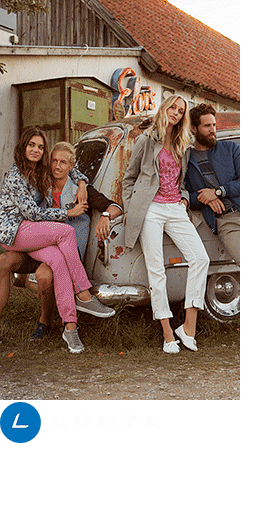
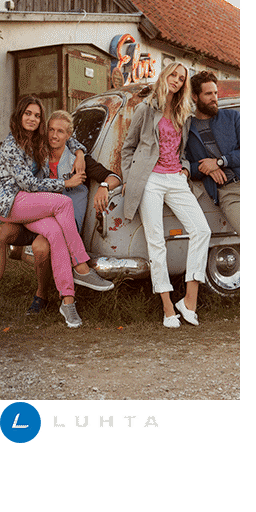
Update

diff --git a/out/240x400_6.js b/out/240x400_6.js
@@ -45,56 +45,56 @@ function getMCSymbolPrototype(symbol, nominalBounds, frameBounds) {
 
 	// Слой 1
 	this.shape = new cjs.Shape();
-	this.shape.graphics.f("#FFFFFF").s().p("AAkCRIAAiGIhHAAIAACGIg3AAIAAkgIA3AAIAABvIBHAAIAAhvIA3AAIAAEgg");
-	this.shape.setTransform(56.5,28.3);
+	this.shape.graphics.f("#FFFFFF").s().p("AAoCfIAAiTIhOAAIAACTIg9AAIAAk9IA9AAIAAB7IBOAAIAAh7IA8AAIAAE9g");
+	this.shape.setTransform(63.4,18.3);
 
 	this.shape_1 = new cjs.Shape();
-	this.shape_1.graphics.f("#FFFFFF").s().p("AhMCRIAAkgICZAAIAAAsIhiAAIAABDIBZAAIAAArIhZAAIAABZIBiAAIAAAtg");
-	this.shape_1.setTransform(36.2,28.3);
+	this.shape_1.graphics.f("#FFFFFF").s().p("AhUCfIAAk9ICpAAIAAAxIhsAAIAABKIBiAAIAAAvIhiAAIAABiIBsAAIAAAxg");
+	this.shape_1.setTransform(41.2,18.3);
 
 	this.shape_2 = new cjs.Shape();
[1 lines of base64/hex data omitted]
-	this.shape_2.setTransform(11.9,28.3);
[1 lines of base64/hex data omitted]
+	this.shape_2.setTransform(14.4,18.3);
 
 	this.shape_3 = new cjs.Shape();
-	this.shape_3.graphics.f("#FFFFFF").s().p("AhMCRIAAkgICZAAIAAAsIhiAAIAABDIBZAAIAAArIhZAAIAABZIBiAAIAAAtg");
-	this.shape_3.setTransform(-11.9,28.3);
+	this.shape_3.graphics.f("#FFFFFF").s().p("AhUCfIAAk9ICpAAIAAAxIhsAAIAABKIBiAAIAAAvIhiAAIAABiIBsAAIAAAxg");
+	this.shape_3.setTransform(-11.7,18.3);
 
 	this.shape_4 = new cjs.Shape();
-	this.shape_4.graphics.f("#FFFFFF").s().p("AhZCRIAAkgIBnAAQAXAAARALQARAMAJATQAKASAAAYQAAAYgKAUQgJASgRAMQgRALgYABIgvAAIAAB2gAgigPIAcAAQATAAALgLQAKgLAAgVQAAgVgKgKQgLgLgTAAIgcAAg");
-	this.shape_4.setTransform(-32.4,28.3);
+	this.shape_4.graphics.f("#FFFFFF").s().p("AhiCfIAAk9IBxAAQAaABATAMQASANALAUQAKAWAAAZQAAAbgLAVQgKAVgTANQgTAMgaAAIgzAAIAACCgAglgQIAeAAQAWAAALgNQALgMAAgXQAAgXgLgLQgLgNgWAAIgeAAg");
+	this.shape_4.setTransform(-34.3,18.3);
 
 	this.shape_5 = new cjs.Shape();
-	this.shape_5.graphics.f("#FFFFFF").s().p("AhMCRIAAkgICZAAIAAAsIhiAAIAABDIBZAAIAAArIhZAAIAABZIBiAAIAAAtg");
-	this.shape_5.setTransform(-52.6,28.3);
+	this.shape_5.graphics.f("#FFFFFF").s().p("AhUCfIAAk9ICpAAIAAAxIhtAAIAABKIBjAAIAAAvIhjAAIAABiIBtAAIAAAxg");
+	this.shape_5.setTransform(-56.4,18.3);
 
 	this.shape_6 = new cjs.Shape();
-	this.shape_6.graphics.f("#FFFFFF").s().p("AAkCRIAAj0IhHAAIAAD0Ig3AAIAAkgIC1AAIAAEgg");
-	this.shape_6.setTransform(-73.4,28.3);
+	this.shape_6.graphics.f("#FFFFFF").s().p("AAoCfIAAkMIhPAAIAAEMIg8AAIAAk9IDHAAIAAE9g");
+	this.shape_6.setTransform(-79.3,18.3);
 
 	this.shape_7 = new cjs.Shape();
-	this.shape_7.graphics.f("#FFFFFF").s().p("AhZCRIAAkgIBnAAQAXAAARALQARAMAJASQAKAUAAAXQAAAYgKAUQgJATgRALQgRAMgYAAIgvAAIAAB2gAgigPIAcAAQATAAALgLQAKgMAAgUQAAgVgKgKQgLgMgTAAIgcAAg");
-	this.shape_7.setTransform(5.8,-17.4);
+	this.shape_7.graphics.f("#FFFFFF").s().p("AhiCfIAAk9IBxAAQAaAAATANQASAMALAVQAKAWAAAZQAAAagLAWQgKAVgTAMQgTANgaABIgzAAIAACBgAglgQIAeAAQAWAAALgNQALgMAAgXQAAgXgLgMQgLgLgWgBIgeAAg");
+	this.shape_7.setTransform(7.8,-22);
 
 	this.shape_8 = new cjs.Shape();
-	this.shape_8.graphics.f("#FFFFFF").s().p("AhMCRIAAkgICZAAIAAArIhiAAIAABEIBZAAIAAArIhZAAIAABaIBiAAIAAAsg");
-	this.shape_8.setTransform(-14.3,-17.4);
+	this.shape_8.graphics.f("#FFFFFF").s().p("AhUCfIAAk9ICpAAIAAAwIhtAAIAABKIBjAAIAAAwIhjAAIAABjIBtAAIAAAwg");
+	this.shape_8.setTransform(-14.3,-22);
 
 	this.shape_9 = new cjs.Shape();
-	this.shape_9.graphics.f("#FFFFFF").s().p("AgbCRIAAj1IhDAAIAAgrIC9AAIAAArIhEAAIAAD1g");
-	this.shape_9.setTransform(-34.3,-17.4);
+	this.shape_9.graphics.f("#FFFFFF").s().p("AgdCfIAAkNIhLAAIAAgwIDRAAIAAAwIhLAAIAAENg");
+	this.shape_9.setTransform(-36.3,-22);
 
 	this.shape_10 = new cjs.Shape();
-	this.shape_10.graphics.f("#FFFFFF").s().p("AhMCRIAAkgICZAAIAAArIhiAAIAABEIBZAAIAAArIhZAAIAABaIBiAAIAAAsg");
-	this.shape_10.setTransform(-53.7,-17.4);
+	this.shape_10.graphics.f("#FFFFFF").s().p("AhUCfIAAk9ICpAAIAAAwIhtAAIAABKIBjAAIAAAwIhjAAIAABjIBtAAIAAAwg");
+	this.shape_10.setTransform(-57.6,-22);
 
 	this.shape_11 = new cjs.Shape();
-	this.shape_11.graphics.f("#FFFFFF").s().p("AhXCRIAAkgIBkAAQAZAAAQAKQAQAJAHARQAHAQAAASQAAAOgFANQgEAOgJAKQgJAJgMADQAWAIAKAQQALARAAAcQAAAZgHATQgHAUgPAKQgPAMgWAAgAggBnIAiAAQAPAAAIgKQAHgKAAgZQAAgVgHgMQgIgLgPAAIgiAAgAgggaIAcAAQARgBAIgKQAIgJAAgUQAAgSgHgJQgIgJgRAAIgdAAg");
-	this.shape_11.setTransform(-73.7,-17.4);
+	this.shape_11.graphics.f("#FFFFFF").s().p("AhgCfIAAk9IBuAAQAcAAASALQARALAHARQAIASAAAUQAAAQgEAPQgGAPgKALQgJAKgNADQAYAJAMARQALATAAAfQAAAcgIAUQgIAWgQAMQgQAMgYAAgAgkBxIAmAAQARABAIgLQAIgMAAgaQAAgYgIgNQgIgNgRAAIgmAAgAgkgdIAgAAQASAAAKgLQAIgLABgVQgBgUgHgLQgJgKgTABIghAAg");
+	this.shape_11.setTransform(-79.6,-22);
 
 	this.timeline.addTween(cjs.Tween.get({}).to({state:[{t:this.shape_11},{t:this.shape_10},{t:this.shape_9},{t:this.shape_8},{t:this.shape_7},{t:this.shape_6},{t:this.shape_5},{t:this.shape_4},{t:this.shape_3},{t:this.shape_2},{t:this.shape_1},{t:this.shape}]}).wait(1));
 
-}).prototype = getMCSymbolPrototype(lib.Символ12, new cjs.Rectangle(-86.5,-43.2,173,95.5), null);
+}).prototype = getMCSymbolPrototype(lib.Символ12, new cjs.Rectangle(-93.5,-50.2,173,94.7), null);
 
 
 (lib.Символ8 = function(mode,startPosition,loop) {
@@ -115,71 +115,71 @@ function getMCSymbolPrototype(symbol, nominalBounds, frameBounds) {
 
 	// Слой 3
 	this.shape = new cjs.Shape();
[1 lines of base64/hex data omitted]
-	this.shape.setTransform(55.6,17);
[1 lines of base64/hex data omitted]
+	this.shape.setTransform(81.8,1.4);
 
 	this.shape_1 = new cjs.Shape();
[1 lines of base64/hex data omitted]
-	this.shape_1.setTransform(40.5,17);
+	this.shape_1.graphics.f("#FFFFFF").s().p("AANBPIAAglIACgTIADgVIACgSIggBfIglAAIAAidIAlAAIAAAnIgCATIgCAVIgCATIABAAIAehiIAkAAIAACdg");
+	this.shape_1.setTransform(70,1.4);
 
 	this.shape_2 = new cjs.Shape();
-	this.shape_2.graphics.f("#FFFFFF").s().p("AAWB5IAAgpIhaAAIAAjIIAwAAIAACiIAfAAIAAiiIAwAAIAACiIAKAAIAABPg");
-	this.shape_2.setTransform(25.1,19);
+	this.shape_2.graphics.f("#FFFFFF").s().p("AASBfIAAggIhHAAIAAidIAlAAIAAB/IAZAAIAAh/IAlAAIAAB/IAJAAIAAA+g");
+	this.shape_2.setTransform(57.9,3);
 
 	this.shape_3 = new cjs.Shape();
-	this.shape_3.graphics.f("#FFFFFF").s().p("AAPBlIgVhHIgNAYIAAAvIguAAIAAjIIAuAAIAABQIAhhQIA0AAIgsBZIAsBvg");
-	this.shape_3.setTransform(9.7,17);
+	this.shape_3.graphics.f("#FFFFFF").s().p("AAMBPIgRg3IgKASIAAAlIgkAAIAAidIAkAAIAAA/IAag/IApAAIgjBGIAjBXg");
+	this.shape_3.setTransform(45.8,1.4);
 
 	this.shape_4 = new cjs.Shape();
-	this.shape_4.graphics.f("#FFFFFF").s().p("Ag3BlIAAjIIBvAAIAAAmIg/AAIAAAnIA5AAIAAAlIg5AAIAAAwIA/AAIAAAmg");
-	this.shape_4.setTransform(-4.7,17);
+	this.shape_4.graphics.f("#FFFFFF").s().p("AgrBPIAAidIBXAAIAAAeIgxAAIAAAfIAsAAIAAAdIgsAAIAAAlIAxAAIAAAeg");
+	this.shape_4.setTransform(34.5,1.4);
 
 	this.shape_5 = new cjs.Shape();
[1 lines of base64/hex data omitted]
-	this.shape_5.setTransform(-20.7,17.1);
[1 lines of base64/hex data omitted]
+	this.shape_5.setTransform(21.9,1.5);
 
 	this.shape_6 = new cjs.Shape();
[1 lines of base64/hex data omitted]
-	this.shape_6.setTransform(-37.9,17.1);
[1 lines of base64/hex data omitted]
+	this.shape_6.setTransform(8.3,1.5);
 
 	this.shape_7 = new cjs.Shape();
[1 lines of base64/hex data omitted]
-	this.shape_7.setTransform(-53.8,17);
+	this.shape_7.graphics.f("#FFFFFF").s().p("AgmBFQgMgMAAgYIAAhGQAAgNAFgKQAGgKALgGQAMgGAQAAQASAAAMAGQALAGAFAKQAFAKAAANIAABGQABAYgNAMQgMANgbABQgZgBgNgNgAgIgyQgEAEAAAGIAABPQAAAIAEADQAEAEAEAAQAFAAAEgEQAEgDAAgIIAAhPQAAgGgEgEQgEgDgFAAQgEAAgEADg");
+	this.shape_7.setTransform(-4.2,1.4);
 
 	this.shape_8 = new cjs.Shape();
-	this.shape_8.graphics.f("#FFFFFF").s().p("AAPBlIgVhHIgNAYIAAAvIguAAIAAjIIAuAAIAABQIAhhQIA0AAIgsBZIAsBvg");
-	this.shape_8.setTransform(-68.6,17);
+	this.shape_8.graphics.f("#FFFFFF").s().p("AAMBPIgRg3IgKASIAAAlIgkAAIAAidIAkAAIAAA/IAag/IApAAIgjBGIAjBXg");
+	this.shape_8.setTransform(-15.7,1.4);
 
 	this.shape_9 = new cjs.Shape();
-	this.shape_9.graphics.f("#FFFFFF").s().p("AAVBkIAAhMIgKAAIgcBMIgzAAIAmhYQgNgHgHgNQgIgPAAgSQgBgQAHgOQAGgNANgHQAMgJASABIBIAAIAADHgAgEg4QgGAGAAAMQAAALAGAIQAEAHAJAAIAMAAIAAgzIgMAAQgJAAgEAHg");
-	this.shape_9.setTransform(-7.8,-16.1);
[1 lines of base64/hex data omitted]
+	this.shape_9.setTransform(-34.3,1.4);
 
 	this.shape_10 = new cjs.Shape();
-	this.shape_10.graphics.f("#FFFFFF").s().p("AAaBkIgIgoIgjAAIgHAoIgwAAIAsjHIA4AAIAtDHgAAMAYIgMhXIAAAAIgNBXIAZAAg");
-	this.shape_10.setTransform(-22.6,-16.1);
+	this.shape_10.graphics.f("#FFFFFF").s().p("AAUBPIgGgfIgbAAIgGAfIgmAAIAjidIAsAAIAkCdgAAKATIgKhEIgKBEIAUAAg");
+	this.shape_10.setTransform(-45.9,1.4);
 
 	this.shape_11 = new cjs.Shape();
[1 lines of base64/hex data omitted]
-	this.shape_11.setTransform(-37.7,-16.1);
+	this.shape_11.graphics.f("#FFFFFF").s().p("AgyBPIAAidIA8AAQAJAAAJAEQAKAEAFAJQAGAJAAANQAAAMgDAGQgEAIgFADQgFAFgEAAQAKAFAHAHQAFAJAAAQQAAAXgMAMQgMAMgYAAgAgNAyIAJAAQAKAAAEgEQADgEAAgLQAAgKgDgGQgEgEgKAAIgJAAgAgNgRIAMAAQAGAAAEgEQAEgFgBgJQABgHgEgEQgEgDgGAAIgMAAg");
+	this.shape_11.setTransform(-57.7,1.4);
 
 	this.shape_12 = new cjs.Shape();
[1 lines of base64/hex data omitted]
-	this.shape_12.setTransform(-53.3,-16.1);
+	this.shape_12.graphics.f("#FFFFFF").s().p("AgmBFQgMgMAAgYIAAhGQAAgNAFgKQAGgKALgGQAMgGAQAAQASAAAMAGQALAGAFAKQAFAKAAANIAABGQABAYgNAMQgMANgbABQgZgBgNgNgAgIgyQgEAEAAAGIAABPQAAAIAEADQAEAEAEAAQAFAAAEgEQAEgDAAgIIAAhPQAAgGgEgEQgEgDgFAAQgEAAgEADg");
+	this.shape_12.setTransform(-70,1.4);
 
 	this.shape_13 = new cjs.Shape();
-	this.shape_13.graphics.f("#FFFFFF").s().p("AAQBkIAAhVIgfAAIAABVIgwAAIAAjHIAwAAIAABNIAfAAIAAhNIAwAAIAADHg");
-	this.shape_13.setTransform(-68.8,-16.1);
+	this.shape_13.graphics.f("#FFFFFF").s().p("AAMBPIAAhDIgYAAIAABDIgmAAIAAidIAmAAIAAA9IAYAAIAAg9IAmAAIAACdg");
+	this.shape_13.setTransform(-82.1,1.4);
 
 	this.timeline.addTween(cjs.Tween.get({}).to({state:[{t:this.shape_13},{t:this.shape_12},{t:this.shape_11},{t:this.shape_10},{t:this.shape_9},{t:this.shape_8},{t:this.shape_7},{t:this.shape_6},{t:this.shape_5},{t:this.shape_4},{t:this.shape_3},{t:this.shape_2},{t:this.shape_1},{t:this.shape}]}).wait(1));
 
 	// Слой 2
 	this.shape_14 = new cjs.Shape();
-	this.shape_14.graphics.f("#0071BB").s().p("Ap4HJQjIABAAjIIAAoCQAAjJDIAAITxAAQDIAAgBDJIAAICQABDIjIgBg");
-	this.shape_14.setTransform(-7.2,3.8,1,1,-5.5);
[1 lines of base64/hex data omitted]
+	this.shape_14.setTransform(0.9,2.2);
 
 	this.timeline.addTween(cjs.Tween.get(this.shape_14).wait(1));
 
-}).prototype = getMCSymbolPrototype(lib.Символ7, new cjs.Rectangle(-92.7,-47.9,171.3,103.5), null);
+}).prototype = getMCSymbolPrototype(lib.Символ7, new cjs.Rectangle(-97.8,-39.2,196.3,82.5), null);
 
 
 (lib.Анимация3 = function(mode,startPosition,loop) {
@@ -206,7 +206,7 @@ p.nominalBounds = new cjs.Rectangle(-120,-200,240,400);
 
 	this.timeline.addTween(cjs.Tween.get(this.instance).wait(1));
 
-}).prototype = getMCSymbolPrototype(lib.Символ9, new cjs.Rectangle(-91.5,-48.2,186,109), null);
+}).prototype = getMCSymbolPrototype(lib.Символ9, new cjs.Rectangle(-98.5,-55.2,186,108), null);
 
 
 // stage content:
@@ -231,13 +231,12 @@ p.nominalBounds = new cjs.Rectangle(-120,-200,240,400);
 
 	this.timeline.addTween(cjs.Tween.get(this.shape).wait(274));
 
-	// Слой 1
+	// Слой 9
 	this.instance = new lib.Символ8();
 	this.instance.parent = this;
 	this.instance.setTransform(120,357.5);
-	this.instance._off = true;
 
-	this.timeline.addTween(cjs.Tween.get(this.instance).wait(137).to({_off:false},0).wait(137));
+	this.timeline.addTween(cjs.Tween.get(this.instance).wait(274));
 
 	// Слой 3
 	this.instance_1 = new lib.Символ7();
@@ -252,11 +251,11 @@ p.nominalBounds = new cjs.Rectangle(-120,-200,240,400);
 	// Слой 4
 	this.instance_2 = new lib.Символ9();
 	this.instance_2.parent = this;
-	this.instance_2.setTransform(135,268.1);
+	this.instance_2.setTransform(127,233.1);
 	this.instance_2.alpha = 0;
 	this.instance_2._off = true;
 
-	this.timeline.addTween(cjs.Tween.get(this.instance_2).wait(137).to({_off:false},0).to({x:125,alpha:1},5,cjs.Ease.get(1)).wait(55).to({x:145,alpha:0},5,cjs.Ease.get(1)).to({_off:true},1).wait(71));
+	this.timeline.addTween(cjs.Tween.get(this.instance_2).wait(137).to({_off:false},0).to({alpha:1},5,cjs.Ease.get(1)).wait(55).to({alpha:0},5,cjs.Ease.get(1)).to({_off:true},1).wait(71));
 
 	// Слой 5
 	this.instance_3 = new lib.Анимация3("synched",0);
@@ -269,49 +268,42 @@ p.nominalBounds = new cjs.Rectangle(-120,-200,240,400);
 	// Слой 7
 	this.shape_1 = new cjs.Shape();
 	this.shape_1.graphics.f("#FFFFFF").s().p("AyvfQMAAAg+fMAlfAAAMAAAA+fg");
-	this.shape_1.setTransform(120,200);
+	this.shape_1.setTransform(120,190);
 	this.shape_1._off = true;
 
 	this.timeline.addTween(cjs.Tween.get(this.shape_1).wait(137).to({_off:false},0).wait(137));
 
-	// Слой 9
-	this.instance_4 = new lib.Символ8();
-	this.instance_4.parent = this;
-	this.instance_4.setTransform(120,357.5);
-
-	this.timeline.addTween(cjs.Tween.get(this.instance_4).to({_off:true},137).wait(137));
-
 	// Слой 12
-	this.instance_5 = new lib.Символ7();
-	this.instance_5.parent = this;
-	this.instance_5.setTransform(120,230.9,0.9,0.9);
-	this.instance_5.alpha = 0;
-	this.instance_5.shadow = new cjs.Shadow("#000000",1,1,4);
-	this.instance_5._off = true;
+	this.instance_4 = new lib.Символ7();
+	this.instance_4.parent = this;
+	this.instance_4.setTransform(120,230.9,0.9,0.9);
+	this.instance_4.alpha = 0;
+	this.instance_4.shadow = new cjs.Shadow("#000000",1,1,4);
+	this.instance_4._off = true;
 
-	this.timeline.addTween(cjs.Tween.get(this.instance_5).wait(66).to({_off:false},0).to({scaleX:1,scaleY:1,alpha:1},5,cjs.Ease.get(1)).wait(60).to({scaleX:1.1,scaleY:1.1,alpha:0},5,cjs.Ease.get(1)).to({_off:true},1).wait(137));
+	this.timeline.addTween(cjs.Tween.get(this.instance_4).wait(66).to({_off:false},0).to({scaleX:1,scaleY:1,alpha:1},5,cjs.Ease.get(1)).wait(60).to({scaleX:1.1,scaleY:1.1,alpha:0},5,cjs.Ease.get(1)).to({_off:true},1).wait(137));
 
 	// Слой 11
-	this.instance_6 = new lib.Символ9();
-	this.instance_6.parent = this;
-	this.instance_6.setTransform(125,268,0.9,0.9);
-	this.instance_6.alpha = 0;
+	this.instance_5 = new lib.Символ9();
+	this.instance_5.parent = this;
+	this.instance_5.setTransform(125,233,0.9,0.9);
+	this.instance_5.alpha = 0;
 
-	this.timeline.addTween(cjs.Tween.get(this.instance_6).to({scaleX:1,scaleY:1,y:268.1,alpha:1},5,cjs.Ease.get(1)).wait(55).to({scaleX:1.1,scaleY:1.1,alpha:0},5,cjs.Ease.get(1)).to({_off:true},1).wait(208));
+	this.timeline.addTween(cjs.Tween.get(this.instance_5).to({scaleX:1,scaleY:1,y:233.1,alpha:1},5,cjs.Ease.get(1)).wait(55).to({scaleX:1.1,scaleY:1.1,alpha:0},5,cjs.Ease.get(1)).to({_off:true},1).wait(208));
 
 	// Слой 2
-	this.instance_7 = new lib.Анимация3("synched",0);
-	this.instance_7.parent = this;
-	this.instance_7.setTransform(120,200);
+	this.instance_6 = new lib.Анимация3("synched",0);
+	this.instance_6.parent = this;
+	this.instance_6.setTransform(120,200);
 
-	this.timeline.addTween(cjs.Tween.get(this.instance_7).to({_off:true},137).wait(137));
+	this.timeline.addTween(cjs.Tween.get(this.instance_6).to({_off:true},137).wait(137));
 
 	// Слой 6
 	this.shape_2 = new cjs.Shape();
 	this.shape_2.graphics.f("#FFFFFF").s().p("AyvfQMAAAg+fMAlfAAAMAAAA+fg");
 	this.shape_2.setTransform(120,200);
 
-	this.timeline.addTween(cjs.Tween.get(this.shape_2).to({_off:true},137).wait(137));
+	this.timeline.addTween(cjs.Tween.get(this.shape_2).wait(274));
 
 }).prototype = p = new cjs.MovieClip();
 p.nominalBounds = new cjs.Rectangle(119,199,242,402);
@@ -323,7 +315,7 @@ lib.properties = {
 	color: "#FFFFFF",
 	opacity: 1.00,
 	manifest: [
-		{src:"images/240x400_6_atlas_.png?1486826096061", id:"240x400_6_atlas_"}
+		{src:"images/240x400_6_atlas_.png?1486925627049", id:"240x400_6_atlas_"}
 	],
 	preloads: []
 };

diff --git a/out/240x400_6.html b/out/240x400_6.html
@@ -14,7 +14,7 @@
 <title>240x400_6</title>
 <!-- write your code here -->
 <script src="https://code.createjs.com/createjs-2015.11.26.min.js"></script>
-<script src="240x400_6.js?1486826096082"></script>
+<script src="240x400_6.js?1486925627066"></script>
 <script>
 var canvas, stage, exportRoot, anim_container, dom_overlay_container, fnStartAnimation;
 function init() {
